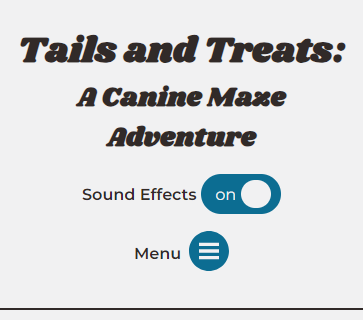
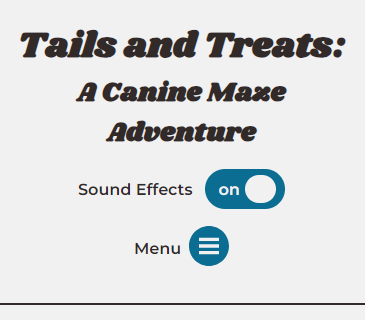
doc: update game rules and screenshots in readme

diff --git a/index.html b/index.html
@@ -117,7 +117,8 @@
         </div>
 
         <!-- start game modal content -->
-        <aside aria-hidden="true" id="modal-start-game" class="modal" aria-describedby="modal-start-game-description" aria-label="start game modal">
+        <aside aria-hidden="true" id="modal-start-game" class="modal" aria-describedby="modal-start-game-description"
+            aria-label="start game modal">
             <div class="modal-content">
                 <button id="close-start-game" class="close btn">Close <span class="icon">&times;</span></button>
                 <div class="modal-text">
@@ -194,28 +195,31 @@
         </aside>
 
         <!-- rules modal content -->
-        <aside aria-hidden="true" id="modal-rules" class="modal" aria-describedby="modal-rules-description" aria-label="rules modal">
+        <aside aria-hidden="true" id="modal-rules" class="modal" aria-describedby="modal-rules-description"
+            aria-label="rules modal">
             <div class="modal-content">
                 <button id="close-rules" class="close btn">Close <span class="icon">&times;</span></button>
                 <div class="modal-text">
                     <h3 class="bigger-heading">Game Rules</h3>
-                    <p>To start the game, click on <span class="bold-text">Start new game</span> in the menu. Then you
-                        will be able to choose a dog character and difficulty.</p>
-                    <p>Once you chose your character and difficulty the game begins.
+                    <p>To begin playing, click on <span class="bold-text">Start new game</span> in the menu. Then you
+                        can select a dog character and difficulty.</p>
+                    <p>Once you chose your character and difficulty, the game begins. You can enable or disable optional
+                        sound effects using the toggle switch.
                         You will move your dog around the maze <span class="bold-text">collecting treats</span>. The
                         goal of the game is to collect as
-                        many treats as possible, to make your dog happy.
-                        When you exit the maze, you will see <span class="bold-text">how well you filled made the dog´s
+                        many treats as possible and make your dog happy.
+                        After exiting the maze, you will see <span class="bold-text">how well you filled the dog´s
                             bowl</span>.</p>
-                    <p>Navigate the maze using your <span class="bold-text">keyboard controls or the buttons</span>
+                    <p>You can navigate the maze using either your <span class="bold-text">keyboard controls or the
+                            buttons</span>
                         provided underneath the maze.
                     </p>
                     <p>Each time you start a new game, the maze is <span class="bold-text">created randomly</span> so
                         you will face a new challenge
-                        each time you play.</p>
-                    <p>When finishing the maze, you get a <span class="bold-text">score</span> based on the number of
-                        treats you collected and the time you took. Try to <span class="bold-text">beat your own
-                            highscore</span> the next time playing!</p>
+                        each time you play. When finishing the maze, you get a <span class="bold-text">score</span>
+                        based on the number of
+                        treats you collected and the time it took. Try to <span class="bold-text">beat your
+                            highscore</span> the next time you play!</p>
                 </div>
                 <div class="screenreader-info" id="modal-rules-description">
                     This is a modal which overlays the main content. The modal begins with a heading called &quot;Game
@@ -226,7 +230,8 @@
         </aside>
 
         <!-- congratulations modal content -->
-        <aside aria-hidden="true" id="modal-congratulations" class="modal" aria-describedby="modal-congratulations-description" aria-label="congratulations modal">
+        <aside aria-hidden="true" id="modal-congratulations" class="modal"
+            aria-describedby="modal-congratulations-description" aria-label="congratulations modal">
             <div class="modal-content">
                 <div class="modal-text">
                     <h3 class="bigger-heading mt-2">Woof, woof!</h3>
@@ -240,10 +245,10 @@
                             <caption class="bigger-heading mb-1">Highscore</caption>
                             <thead>
                                 <tr class="table-heading">
-                                    <th><svg role="img"
-                                            aria-describedby="icon-medal" xmlns="http://www.w3.org/2000/svg" width="24"
-                                            height="24" viewBox="0 0 24 24">
-                                            <title id="icon-medal">medal icon decorating table column for highscore position</title>
+                                    <th><svg role="img" aria-describedby="icon-medal" xmlns="http://www.w3.org/2000/svg"
+                                            width="24" height="24" viewBox="0 0 24 24">
+                                            <title id="icon-medal">medal icon decorating table column for highscore
+                                                position</title>
                                             <path
                                                 d="M12 10c-3.865 0-7 3.134-7 7s3.135 7 7 7 7-3.134 7-7-3.135-7-7-7zm0 12c-2.762 0-5-2.239-5-5s2.238-5 5-5 5 2.239 5 5-2.238 5-5 5zm1.484-4.315l1.516-1.457-2.083-.287-.917-1.892-.917 1.892-2.083.287 1.516 1.457-.369 2.07 1.853-.992 1.854.992-.37-2.07zm-5.484-17.685l5.958 8h-3.958l-6-8h4zm6.604 7.194l5.396-7.194h-4l-3.376 4.534 1.98 2.66z" />
                                         </svg></th>

diff --git a/README.md b/README.md
@@ -114,7 +114,7 @@ At the bottom of the footer, I have the copyright information.
 
 ### **Main Menu**
 
-The menu is the default landing page for the game. From the menu, the user can either start a new game or read the rules. If a game has already started a game, the navigation in the header allows the user to close the menu and resume playing. Under these two buttons, there is an animated image of dogs playing. The image goes well with the color scheme of the game and introduces the user to the theme of the game.
+The menu is the default landing page for the game. From the menu, the user can either start a new game or read the rules. If a game has already been started, the navigation in the header allows the user to close the menu and resume playing. Under these two buttons, there is an animated image of dogs playing. The image fits well with the color scheme of the game and introduces the user to the theme of the game.
 
 ![Main menu](docs/screenshots/main_menu.png)
 
